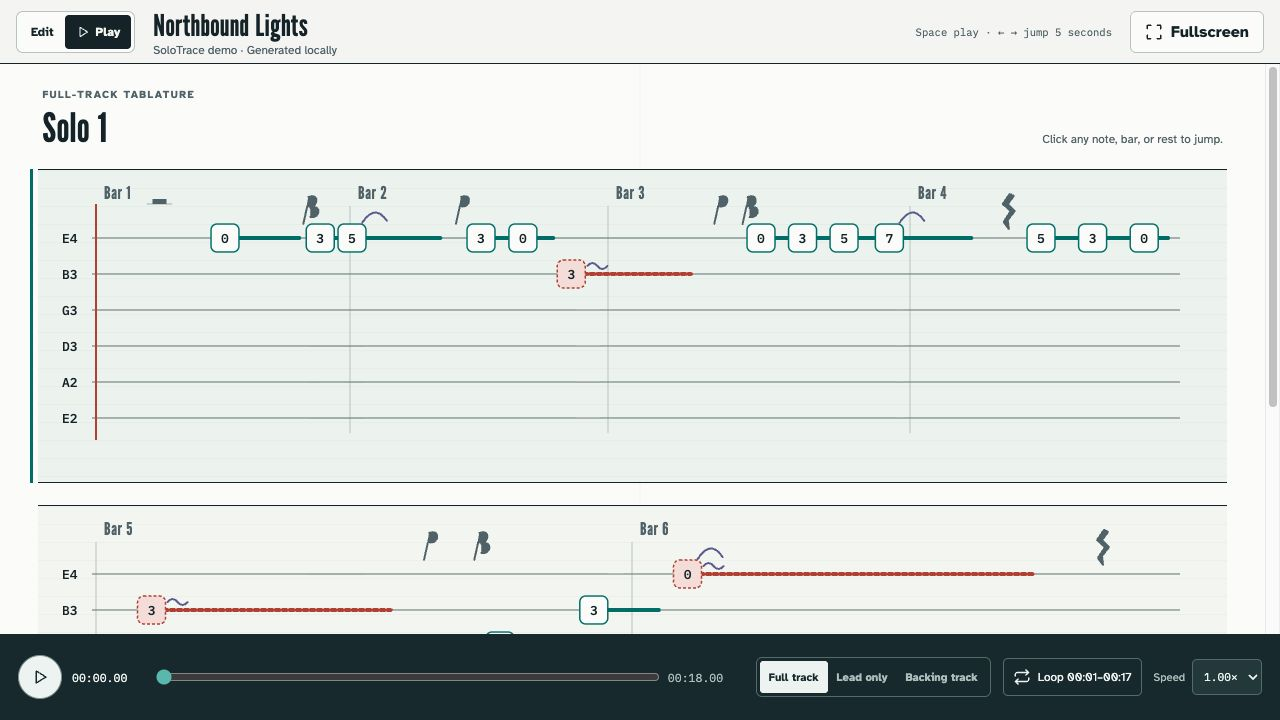
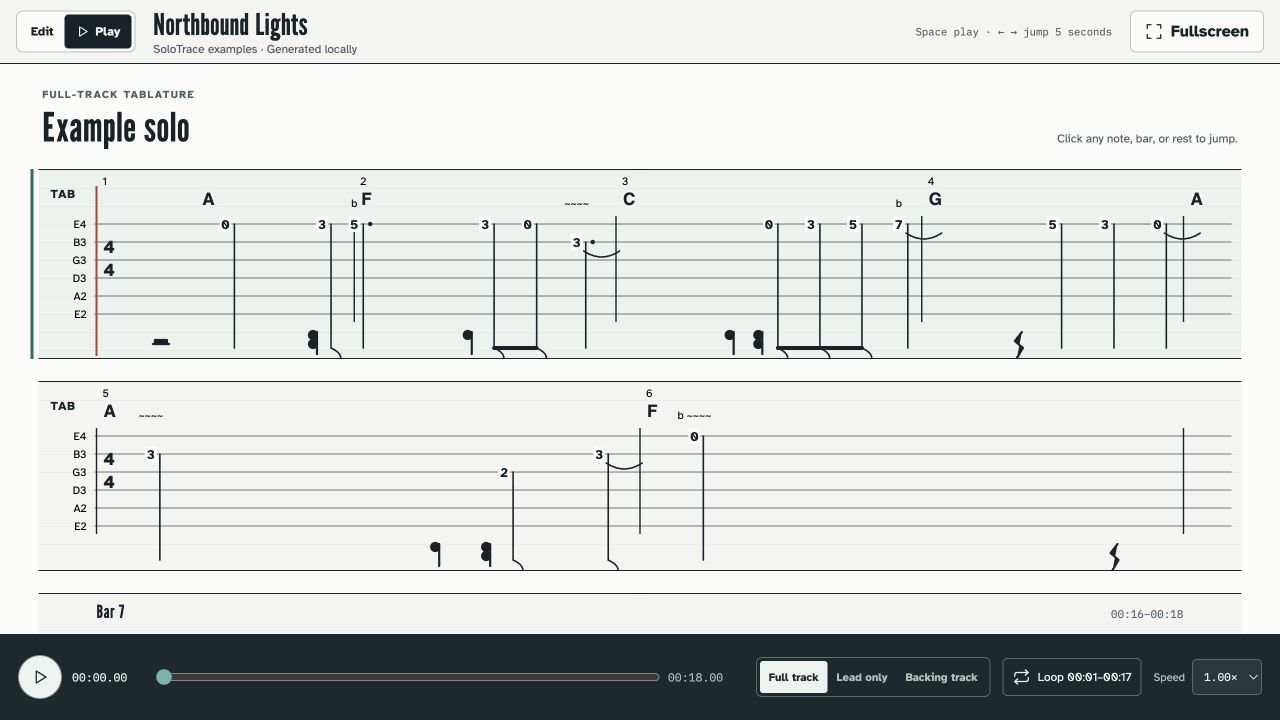
docs: refresh product collage

diff --git a/README.md b/README.md
@@ -12,7 +12,7 @@ The honest product promise is **accurate notes with playable, editable
 fingerings**. Audio rarely reveals which of several equivalent string and fret
 positions a guitarist used.
 
-![SoloTrace editor, practice mode, local import, tab versions, and optional MVSep setup](docs/screenshots/solotrace-collage.jpg)
+![SoloTrace Phrase Workshop, Beat Map, Play mode, private import, and tab versions](docs/screenshots/solotrace-collage.jpg)
 
 SoloTrace is open source under the
 [Apache License 2.0](LICENSE). Signed app builds remain a limited private beta;
